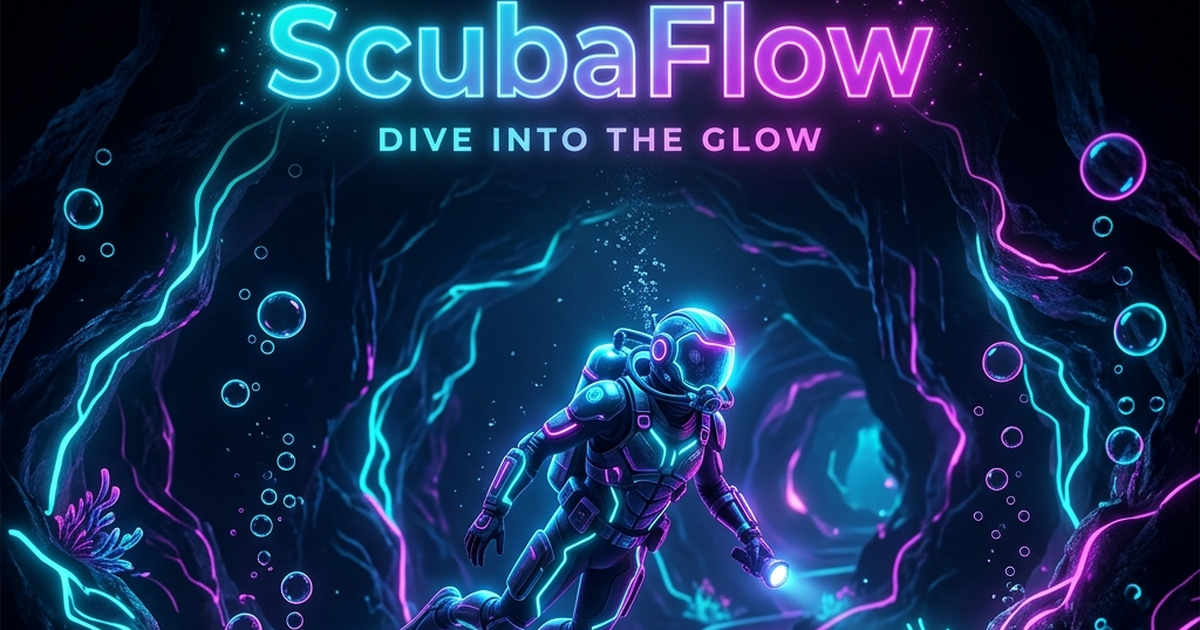
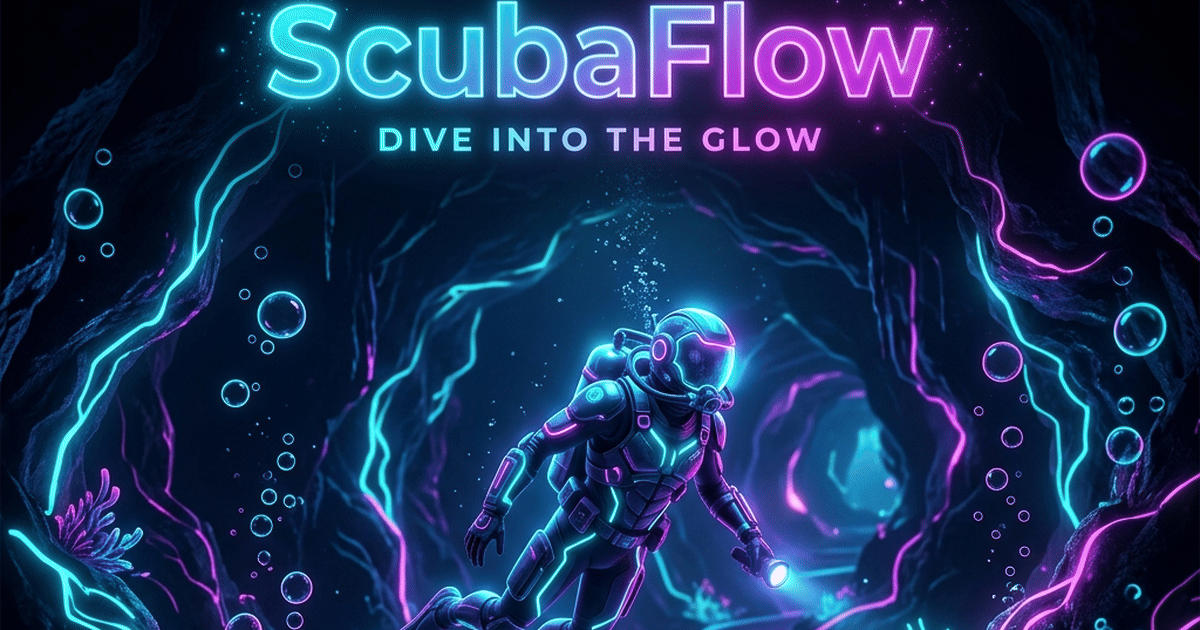
Optimize Open Graph tags and compress preview image to <1MB

diff --git a/index.html b/index.html
@@ -17,13 +17,19 @@
     <meta property="og:title" content="ScubaFlow — Neon Buoyancy Music Game">
     <meta property="og:description" content="Control your buoyancy, navigate neon cave tunnels, and flow to the rhythm of your own music. Clean zero-HUD experience.">
     <meta property="og:image" content="https://scubaflow.bulligan.com/scubaflow_og_image.png">
+    <meta property="og:image:secure_url" content="https://scubaflow.bulligan.com/scubaflow_og_image.png">
+    <meta property="og:image:type" content="image/png">
+    <meta property="og:image:width" content="1200">
+    <meta property="og:image:height" content="630">
+    <meta property="og:image:alt" content="ScubaFlow — Neon Buoyancy Music Game preview showing glowing neon cave tunnels.">
 
     <!-- Twitter -->
-    <meta property="twitter:card" content="summary_large_image">
-    <meta property="twitter:url" content="https://scubaflow.bulligan.com/">
-    <meta property="twitter:title" content="ScubaFlow — Neon Buoyancy Music Game">
-    <meta property="twitter:description" content="Control your buoyancy, navigate neon cave tunnels, and flow to the rhythm of your own music. Clean zero-HUD experience.">
-    <meta property="twitter:image" content="https://scubaflow.bulligan.com/scubaflow_og_image.png">
+    <meta name="twitter:card" content="summary_large_image">
+    <meta name="twitter:url" content="https://scubaflow.bulligan.com/">
+    <meta name="twitter:title" content="ScubaFlow — Neon Buoyancy Music Game">
+    <meta name="twitter:description" content="Control your buoyancy, navigate neon cave tunnels, and flow to the rhythm of your own music. Clean zero-HUD experience.">
+    <meta name="twitter:image" content="https://scubaflow.bulligan.com/scubaflow_og_image.png">
+    <meta name="twitter:image:alt" content="ScubaFlow — Neon Buoyancy Music Game preview showing glowing neon cave tunnels.">
 
     <!-- Google Fonts -->
     <link rel="preconnect" href="https://fonts.googleapis.com">